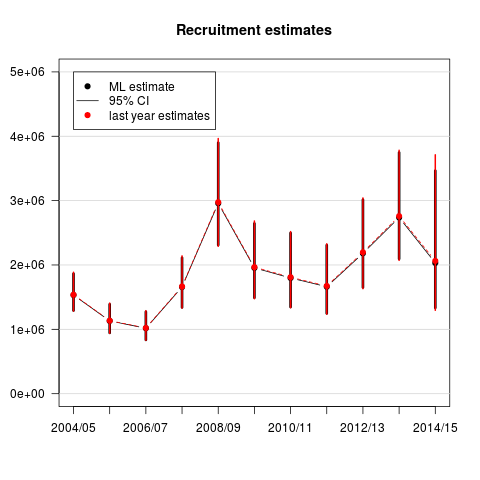
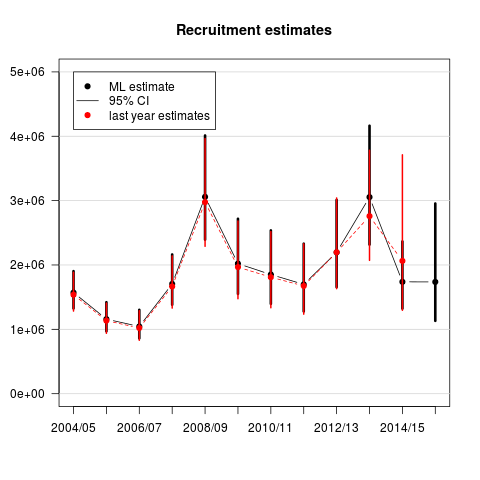
reran analysis

diff --git a/Script/Results/Models/Mod2-FishingMortality.tex b/Script/Results/Models/Mod2-FishingMortality.tex
@@ -1,27 +1,23 @@
-<<<<<<< HEAD
 % latex table generated in R 3.3.1 by xtable 1.7-4 package
-% Wed Aug  2 19:21:11 2017
-=======
-% latex table generated in R 3.4.1 by xtable 1.8-2 package
-% Thu Aug  3 09:20:12 2017
->>>>>>> 6fcb575153f4ceb88ee26f6c1b79a50972afab78
+% Mon Jan 22 06:54:00 2018
 \begin{table}[ht]
 \centering
 \begin{tabular}{rrrrrrr}
   \hline
  & 0--1 & 1--2 & 2--3 & 3--4 & 4--5 & 5--6 \\ 
   \hline
-2004--05 & 0.18 & 1.71 & 1.71 & 1.71 & 1.71 & 1.71 \\ 
-  2005--06 & 0.17 & 1.67 & 1.67 & 1.67 & 1.67 & 1.67 \\ 
-  2006--07 & 0.15 & 1.45 & 1.45 & 1.45 & 1.45 & 1.45 \\ 
-  2007--08 & 0.12 & 1.14 & 1.14 & 1.14 & 1.14 & 1.14 \\ 
-  2008--09 & 0.10 & 1.01 & 1.01 & 1.01 & 1.01 & 1.01 \\ 
-  2009--10 & 0.06 & 0.59 & 0.59 & 0.59 & 0.59 & 0.59 \\ 
-  2010--11 & 0.02 & 0.45 & 0.45 & 0.45 & 0.45 & 0.45 \\ 
-  2011--12 & 0.01 & 0.43 & 0.43 & 0.43 & 0.43 & 0.43 \\ 
-  2012--13 & 0.01 & 0.41 & 0.41 & 0.41 & 0.41 & 0.41 \\ 
-  2013--14 & 0.01 & 0.39 & 0.39 & 0.39 & 0.39 & 0.39 \\ 
+2004--05 & 0.17 & 1.68 & 1.68 & 1.68 & 1.68 & 1.68 \\ 
+  2005--06 & 0.17 & 1.65 & 1.65 & 1.65 & 1.65 & 1.65 \\ 
+  2006--07 & 0.15 & 1.43 & 1.43 & 1.43 & 1.43 & 1.43 \\ 
+  2007--08 & 0.11 & 1.12 & 1.12 & 1.12 & 1.12 & 1.12 \\ 
+  2008--09 & 0.10 & 1.00 & 1.00 & 1.00 & 1.00 & 1.00 \\ 
+  2009--10 & 0.06 & 0.58 & 0.58 & 0.58 & 0.58 & 0.58 \\ 
+  2010--11 & 0.02 & 0.44 & 0.44 & 0.44 & 0.44 & 0.44 \\ 
+  2011--12 & 0.01 & 0.42 & 0.42 & 0.42 & 0.42 & 0.42 \\ 
+  2012--13 & 0.01 & 0.40 & 0.40 & 0.40 & 0.40 & 0.40 \\ 
+  2013--14 & 0.01 & 0.38 & 0.38 & 0.38 & 0.38 & 0.38 \\ 
   2014--15 & 0.01 & 0.38 & 0.38 & 0.38 & 0.38 & 0.38 \\ 
+  2015--16 & 0.01 & 0.30 & 0.30 & 0.30 & 0.30 & 0.30 \\ 
    \hline
 \end{tabular}
 \caption{Estimates of fishing mortality faced by each age-group in every year according to model 2.} 

diff --git a/Writing/Tables/GarfishAgeData.tex b/Writing/Tables/GarfishAgeData.tex
@@ -1,5 +1,5 @@
-% latex table generated in R 3.4.1 by xtable 1.8-2 package
-% Thu Aug  3 09:20:09 2017
+% latex table generated in R 3.3.1 by xtable 1.7-4 package
+% Mon Jan 22 06:53:59 2018
 \begin{table}[ht]
 \centering
 \begin{tabular}{rrrrrrr}

diff --git a/Writing/Tables/GarfishWeightAtAge.tex b/Writing/Tables/GarfishWeightAtAge.tex
@@ -1,5 +1,5 @@
-% latex table generated in R 3.4.1 by xtable 1.8-2 package
-% Thu Aug  3 09:20:09 2017
+% latex table generated in R 3.3.1 by xtable 1.7-4 package
+% Mon Jan 22 06:53:59 2018
 \begin{table}[ht]
 \centering
 \begin{tabular}{rrrrrrr}

diff --git a/Writing/Tables/WeightedGarfishAgeData.tex b/Writing/Tables/WeightedGarfishAgeData.tex
@@ -1,5 +1,5 @@
-% latex table generated in R 3.4.1 by xtable 1.8-2 package
-% Thu Aug  3 09:20:09 2017
+% latex table generated in R 3.3.1 by xtable 1.7-4 package
+% Mon Jan 22 06:53:59 2018
 \begin{table}[ht]
 \centering
 \begin{tabular}{rrrrrrr}

diff --git a/Writing/Tables/GarfishCatchAndEffort.tex b/Writing/Tables/GarfishCatchAndEffort.tex
@@ -1,5 +1,5 @@
-% latex table generated in R 3.4.1 by xtable 1.8-2 package
-% Thu Aug  3 09:20:09 2017
+% latex table generated in R 3.3.1 by xtable 1.7-4 package
+% Mon Jan 22 06:53:59 2018
 \begin{table}[ht]
 \centering
 \begin{tabular}{rrr}
